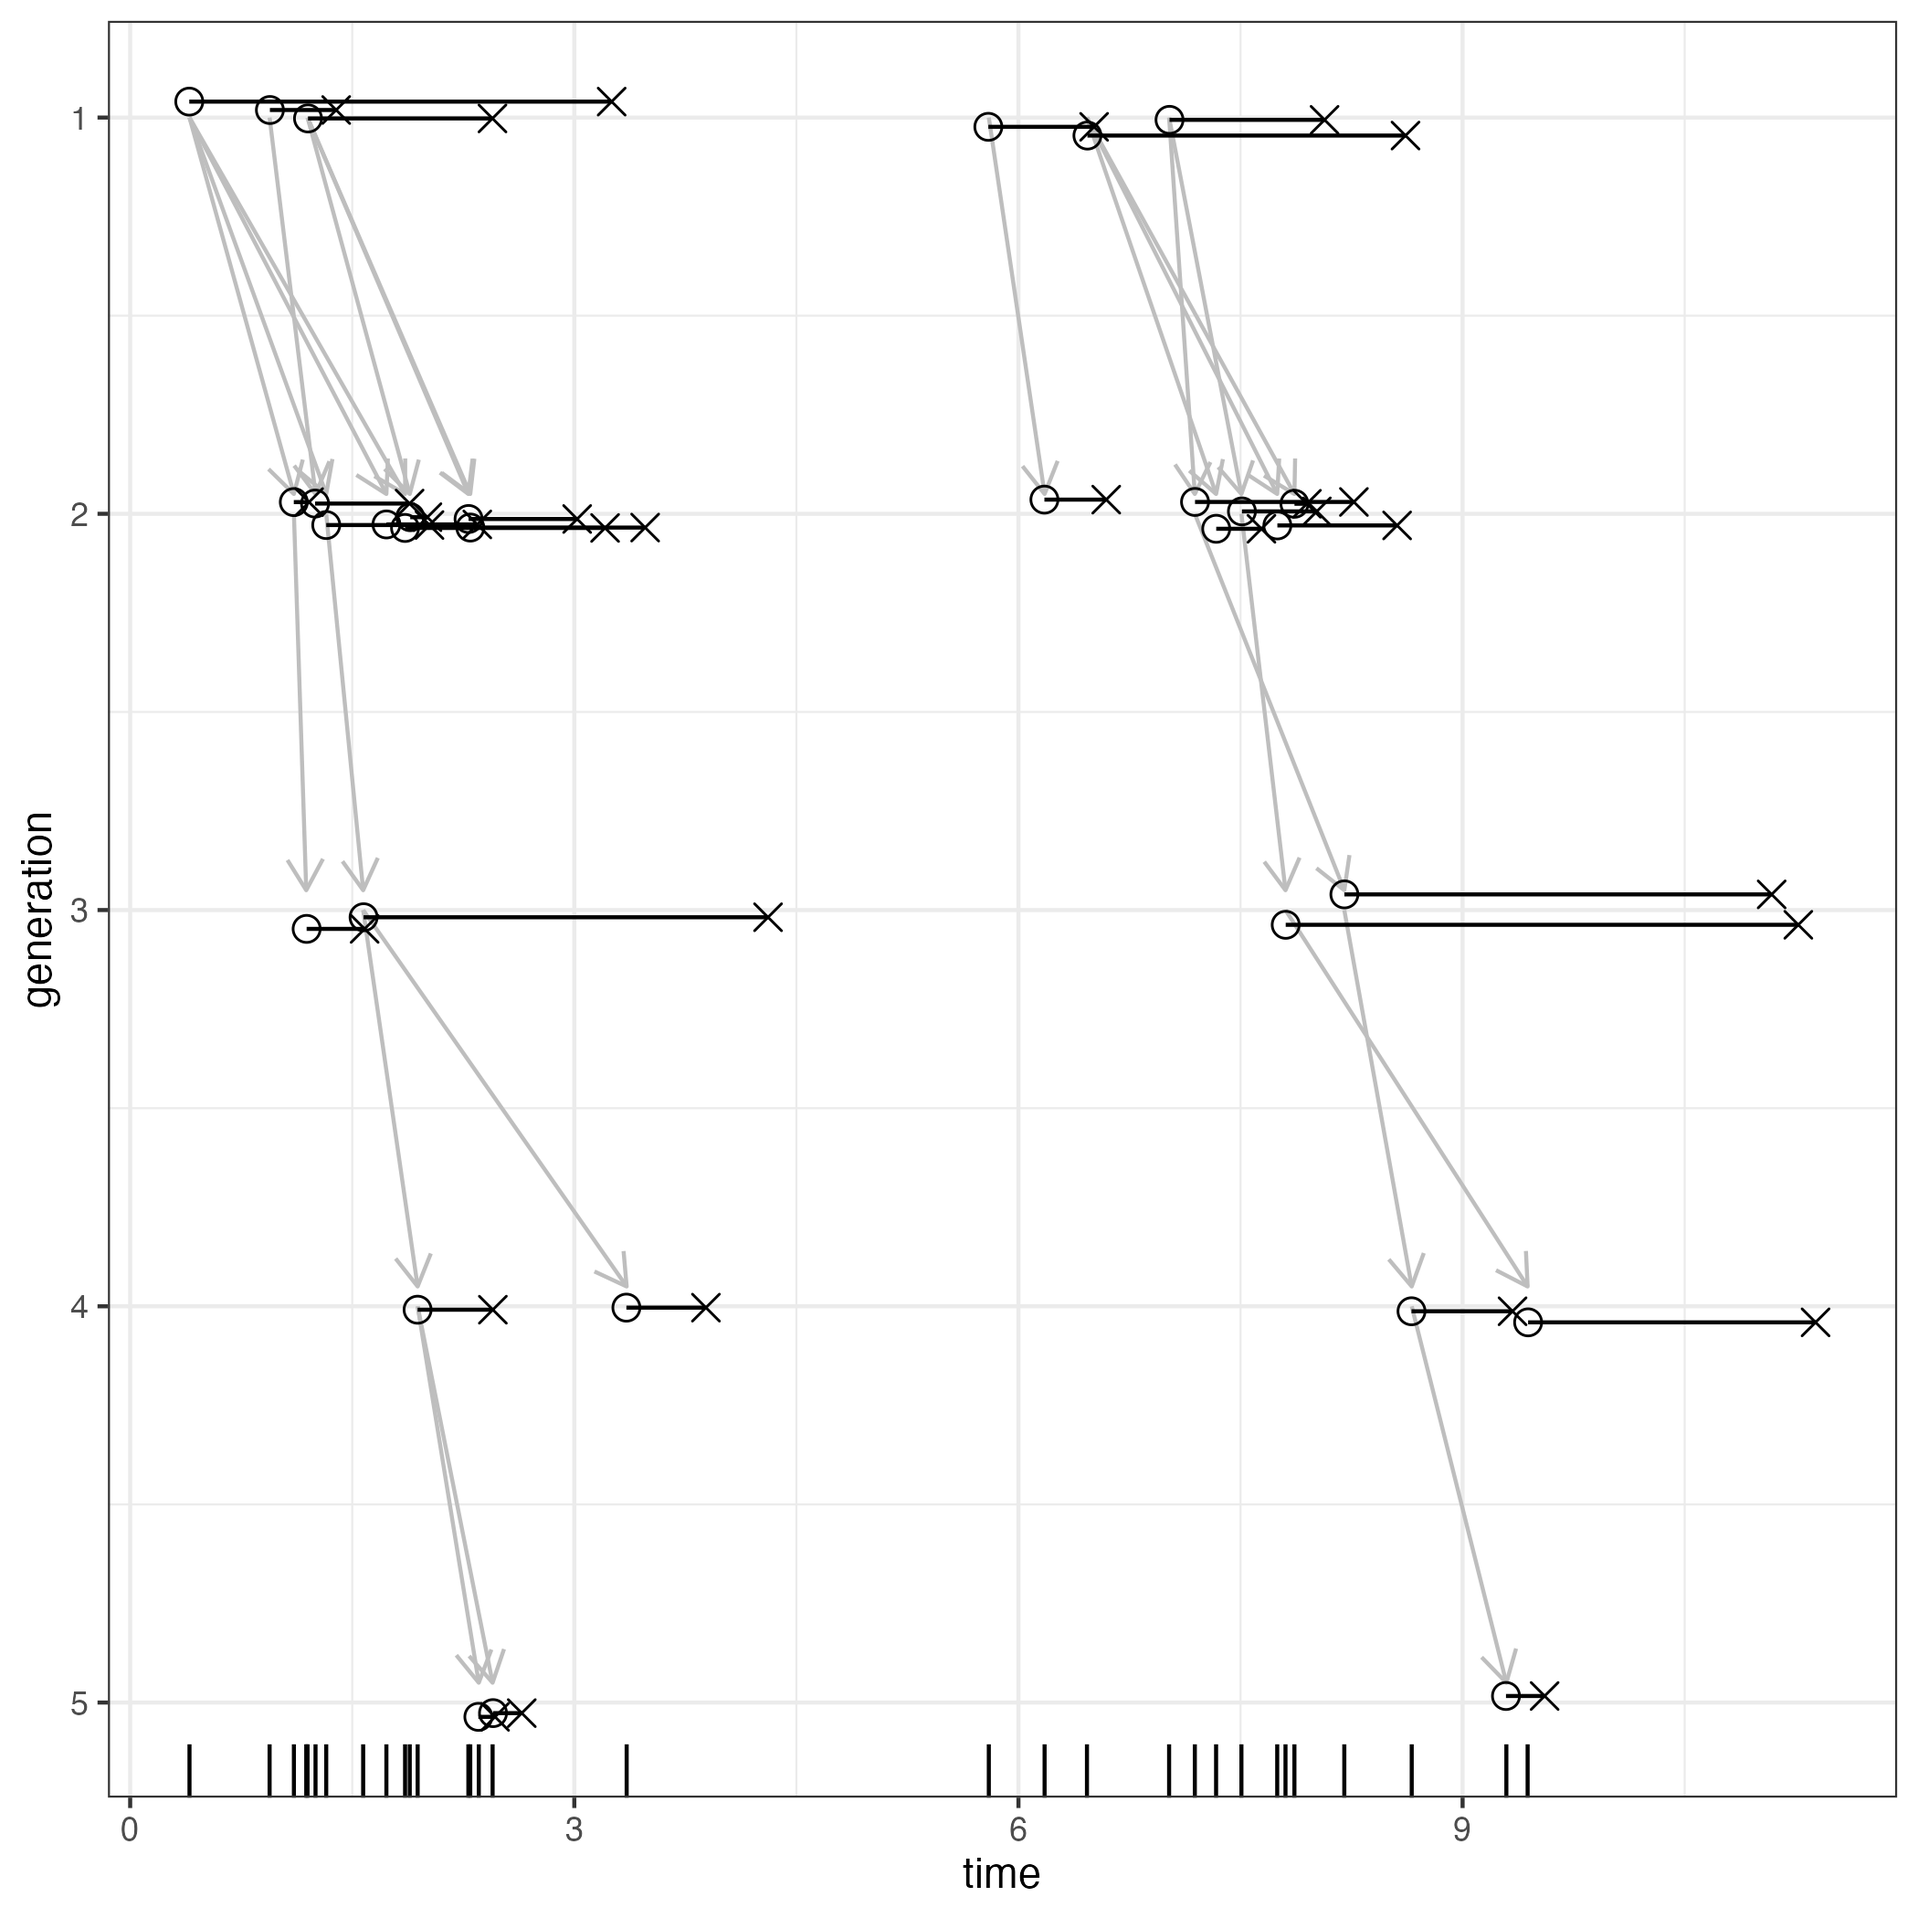
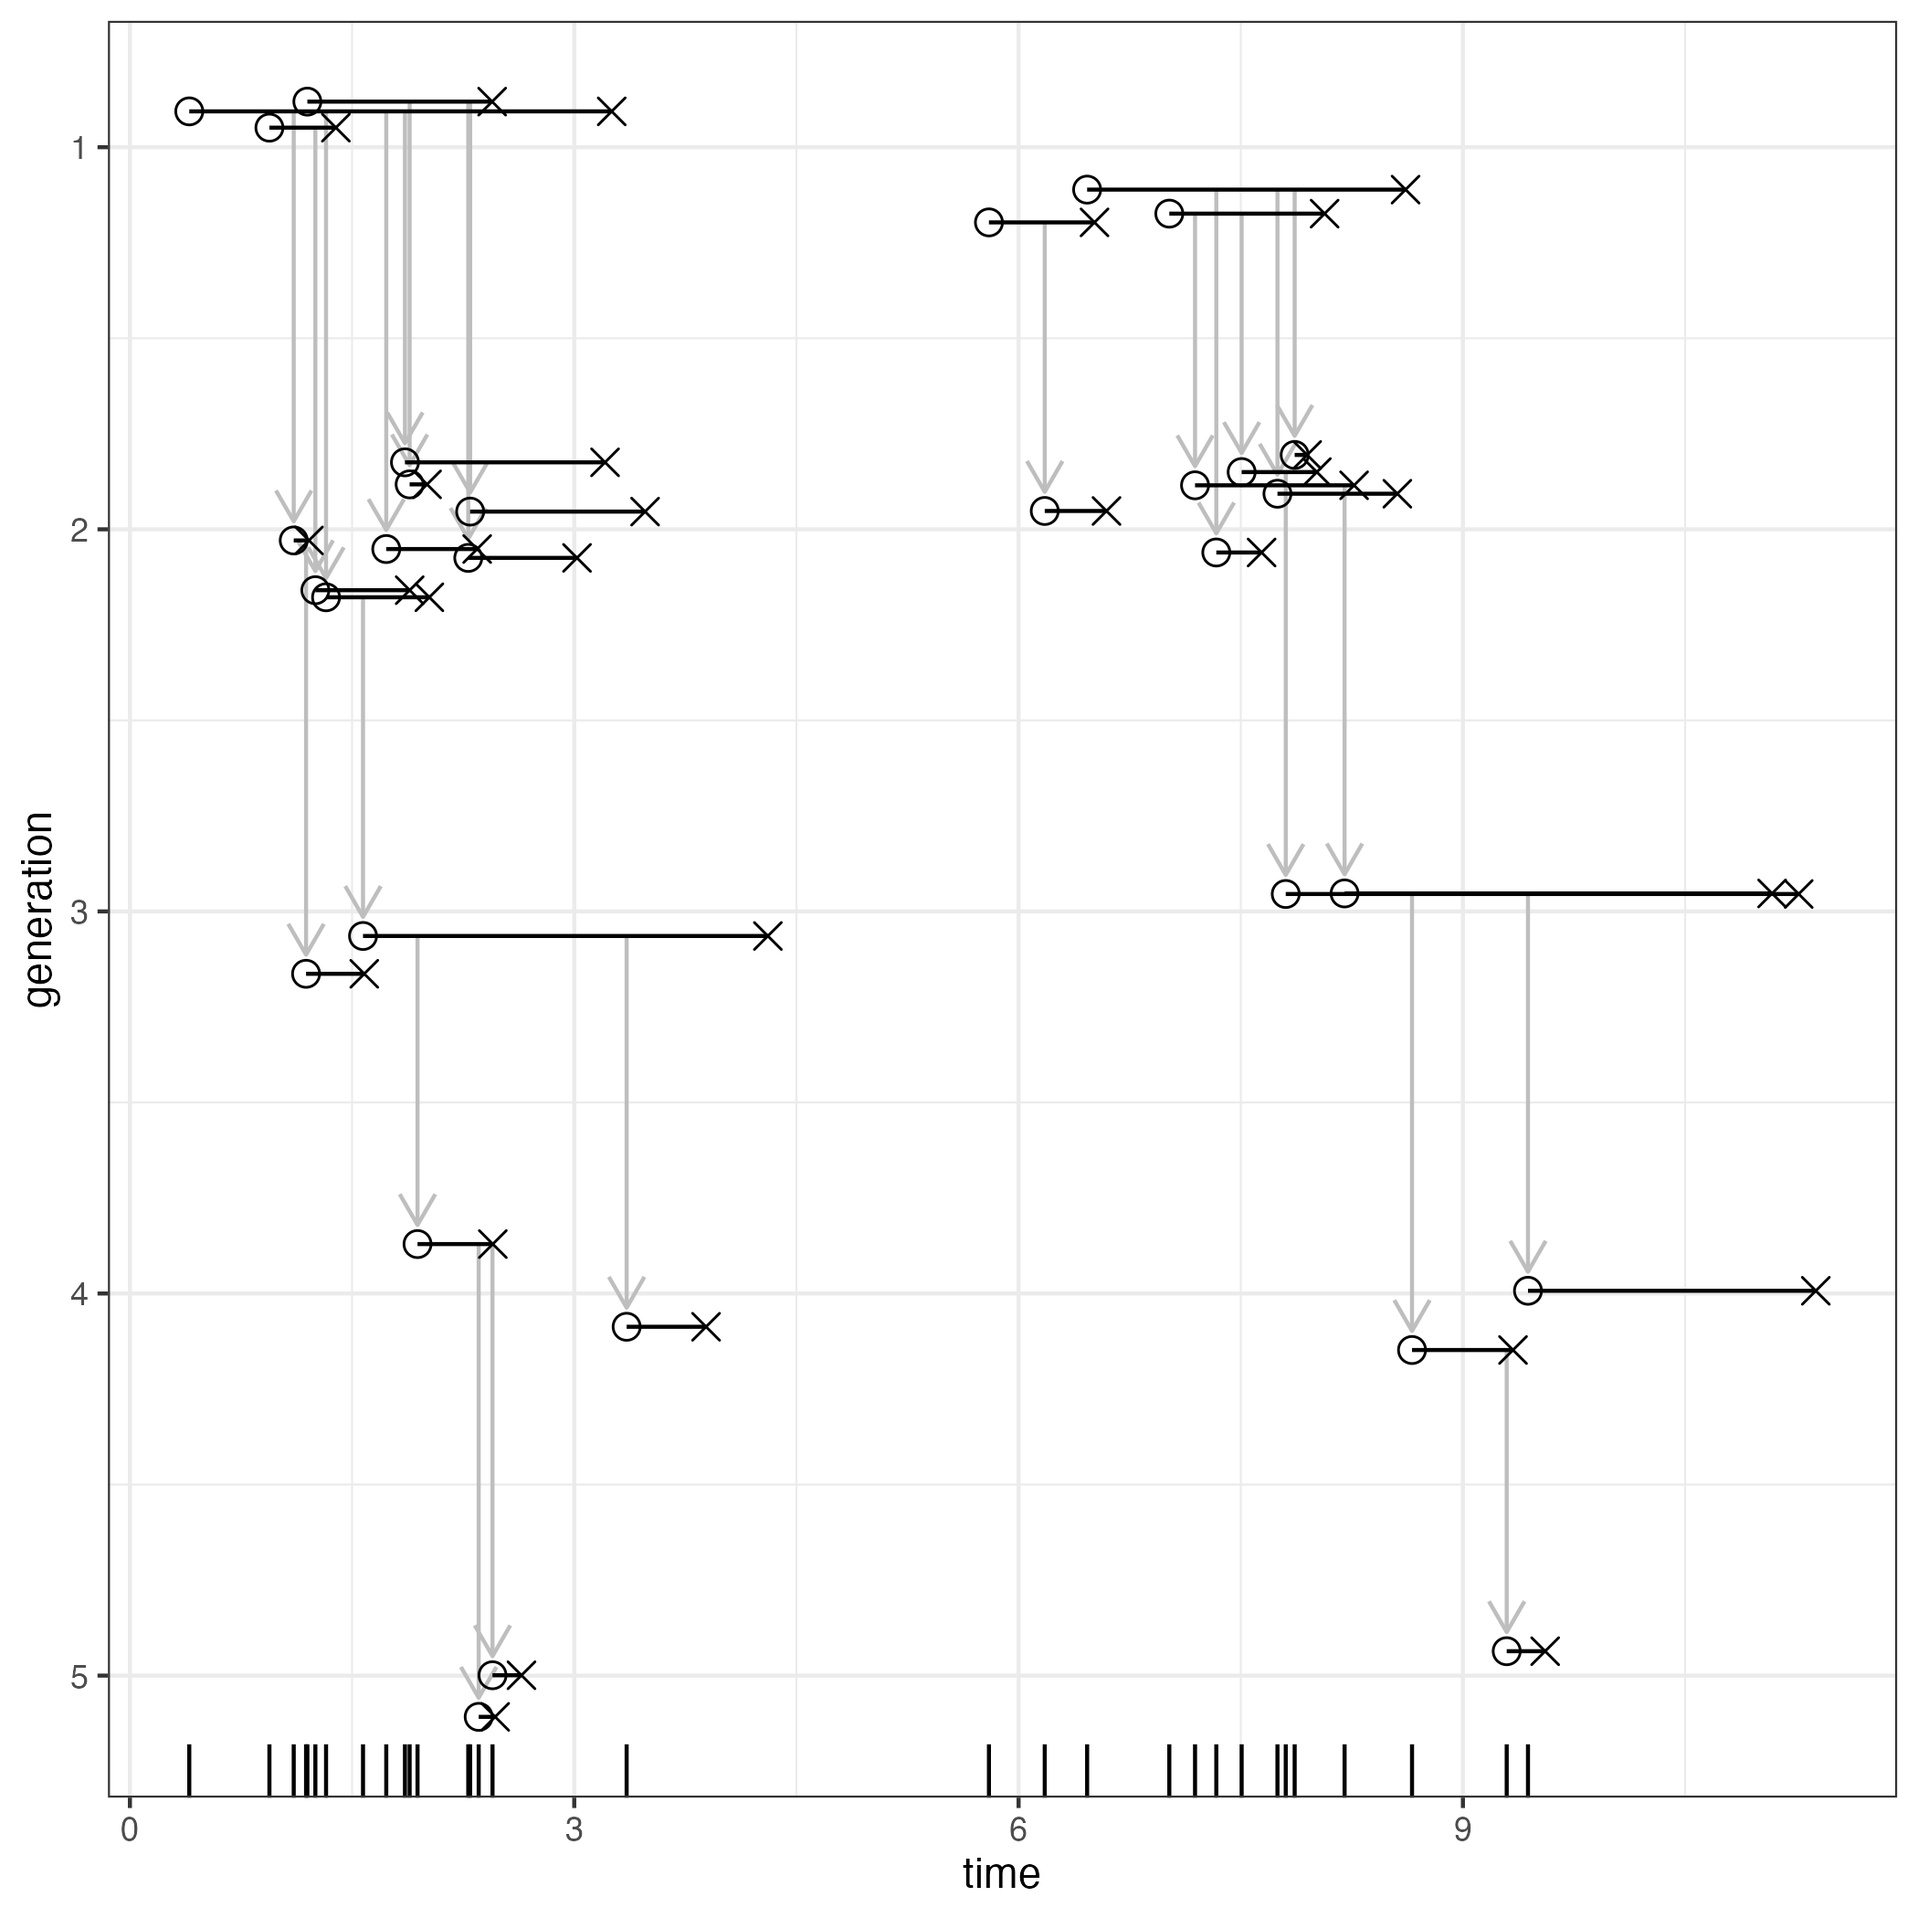
fix fig

diff --git a/articles/nhpp_pow_exp.md b/articles/nhpp_pow_exp.md
@@ -1,0 +1,188 @@
+---
+title: "時間変換による非定常ポアソン過程のシミュレーション：べき乗則と指数則"
+emoji: "🌱"
+type: "tech" # tech: 技術記事 / idea: アイデア
+topics: [R]
+published: false
+---
+
+## はじめに
+
+近江崇宏・野村俊一 『点過程の時系列解析』（共立出版）には次のような記述がある（7.2『ポアソン過程のシミュレーション』の最後の段落）
+
+> 定常ポアソン過程をシミュレーションした後に，適切な時間変換を行うことで非定常ポアソン過程を得ることも考えられる．しかしながら，一般的にこの時間変換は解析的に得ることができないため，数値的な方法に頼らざるを得ず，効率のよい方法とは言えない．
+
+裏を返せば，変換が解析的に得られる特殊ケースならば時間変換による非定常ポアソン過程のシミュレーションは効率のよい方法になり得る可能性がある（もちろん論理的には「裏」は必ずしも真でないが）．ここではそれをやってみる．
+
+## ワイブル過程のシミュレーション
+
+ワイブル過程（Weibull process）とは，累積強度関数 
+
+$$
+H(t) =\left( \frac{t}{\alpha} \right)^\beta
+$$
+
+を持つ非定常ポアソン過程（non homogeneous）の一種.
+
+非定常ポアソン過程にしたがう確率変数 $t_1$ は分布関数 $F(t)=1-\exp(-H(t))$ を持つ分布に従う．
+
+$z_1, z_2, \ldots, z_n$ を一様乱数として，逆関数法により，$t_1$ は，
+
+$$
+t_1=\alpha(- \log (z_1))^{1/\beta}
+$$ 
+
+で得られる．
+
+$t_k$ ($k > 1$) は条件付き確率分布
+
+$$
+ P(T>t_k|T>t_{k-1})= \frac{\exp\left( -( \frac{t_k}{\alpha} )^\beta \right) } {\exp \left(- ( \frac{t_{k-1}}{\alpha})^\beta \right)}
+$$
+
+に従うから，逆関数法により，
+
+$$
+t_k=\alpha \left(- \log (z_k) + \left(\frac{t_{k-1}}{\alpha}\right)^\beta  \right)^{1/\beta}．
+$$
+
+で得られる．
+
+ワイブル過程のシミュレーションは，次の式でできた．
+
+$$
+\begin{aligned}
+t_1 &=\alpha(- \log (z_1))^{1/\beta}\\
+t_k &=\alpha \left(- \log (z_k) + \left(\frac{t_{k-1}}{\alpha}\right)^\beta  \right)^{1/\beta}．
+\end{aligned}
+$$
+
+$t_2$ に $t_1$ を代入すると，
+
+$$
+t_2 =\alpha \left(- \log (z_2) + \log (z_1)  \right)^{1/\beta}．
+$$
+
+同様にして $t_k$ に $t_{k-1}$ を代入すると，
+
+$$
+t_k =\alpha \left(- \sum_{i=1}^k\log (z_i)  \right)^{1/\beta}．
+$$
+
+すなわち，R による実装は：
+
+```r
+Weibull_process <- function(n, alpha, beta) {
+  z <- runif(n)
+  alpha * cumsum(-log(z))^(1 / beta)
+}
+```
+
+
+## 指数則ポアソン過程
+
+ワイブル過程のほかに比較的扱いやすく，指数的増加・減少を表せる非定常ポアソン過程として，強度関数を次のようにしたものがある．
+
+$$
+h(t) = \exp(a+bt)
+$$
+
+例えば [鎌倉稔成　21世紀の統計科学　第3章「生存時間・再発事象分析：理論と応用」5.3.3 他のモデルと例題](https://www.cirje.e.u-tokyo.ac.jp/research/reports/R-15-2.pdf)（PDF直リンク）を参照．
+
+累積強度関数は $h(t)$ を初期条件 0 で積分して，次のようになる．
+
+$$
+H(t) = (\exp(at+b) - \exp(b))/a
+$$
+
+非定常ポアソン過程にしたがう確率変数 $t_1$ は分布関数 $F(t)=1-\exp(-H(t))$ を持つ分布に従う．
+
+$z_1, z_2, \ldots, z_n$ を一様乱数として，逆関数法により，$t_1$ は，
+
+$$
+t_1=(\log(\exp(b) - a\log (z_1)) -b)/a
+$$ 
+
+で得られる．
+
+$t_k$ ($k > 1$) は条件付き確率分布
+
+$$
+P(T>t_k|T>t_{k-1})= \frac{\exp( -  (\exp(at_k+b) - \exp(b))/a} {\exp (- (\exp(at_{k-1}+b) - \exp(b))/a )}
+$$
+
+に従うから，逆関数法により，次式で得られる．
+
+$$
+t_k= \left(\log (- a \log (z_k) + \exp(at_{k-1}+b)) -b \right)/a．
+$$
+
+上記のコードは $a < 0$ の場合も含めると `log()` の中が負になってしまうことがある．
+
+$a<0$ のとき，累積強度の上限が次のように有限であるから，ある程度時間が経過するとそれ以上イベントが発生しなくなる．
+
+$$
+\lim_{t\to\infty} H(t) = - \exp(b)/a
+$$
+
+これは考えてみれば当たり前のことであった．なので次のように実装すると良さそうである．
+
+
+```r
+NHPP_exp = function(n, a, b){
+  mlogz = -log(runif(n))
+  t <- rep(Inf, n)
+  t[1] <- (log(a*mlogz[1] + exp(b))-b)/a
+  if(n >= 2){
+    for(i in 2:n){
+      s <- a*mlogz[i] + exp(a*t[i-1]+b) 
+      if(s<0){
+        break
+      }
+      t[i] =(log(s) - b)/a
+    }
+  }
+  return(t)
+}
+```
+
+![](https://static.zenn.studio/user-upload/579da094b926-20260508.png)
+
+
+
+強度関数を $h(t) = \exp(a+bt)$ とした非定常ポアソン過程のシミュレーションは次の式でできた．
+
+$$
+\begin{aligned}
+t_1 &=(\log(- a\log (z_1) + \exp(b)) -b)/a\\
+t_k &= \left(\log (- a \log (z_k) + \exp(at_{k-1}+b)) -b \right)/a, \quad (k\ge2)．
+\end{aligned}
+$$
+
+これは，
+
+$$
+\begin{aligned}
+w_0 &= \exp(b)\\
+w_k &= - a \log (z_k) + w_{k-1}
+\end{aligned}
+$$
+
+と置けば，次の単純な漸化式で表せる．
+
+$$
+t_k= \left(\log (w_k) -b \right)/a, \quad (k=1,\ldots,n)．
+$$
+
+すなわち，R による実装は：
+
+```r
+NHPP_exp <- function(n, a, b) {
+  mlogz <- -log(runif(n))
+  z <- exp(b) + a * cumsum(mlogz)
+  t <- rep(Inf, n)
+  idx <- z > 0
+  t[idx] <- (log(z[idx]) - b) / a
+  t
+}
+```
